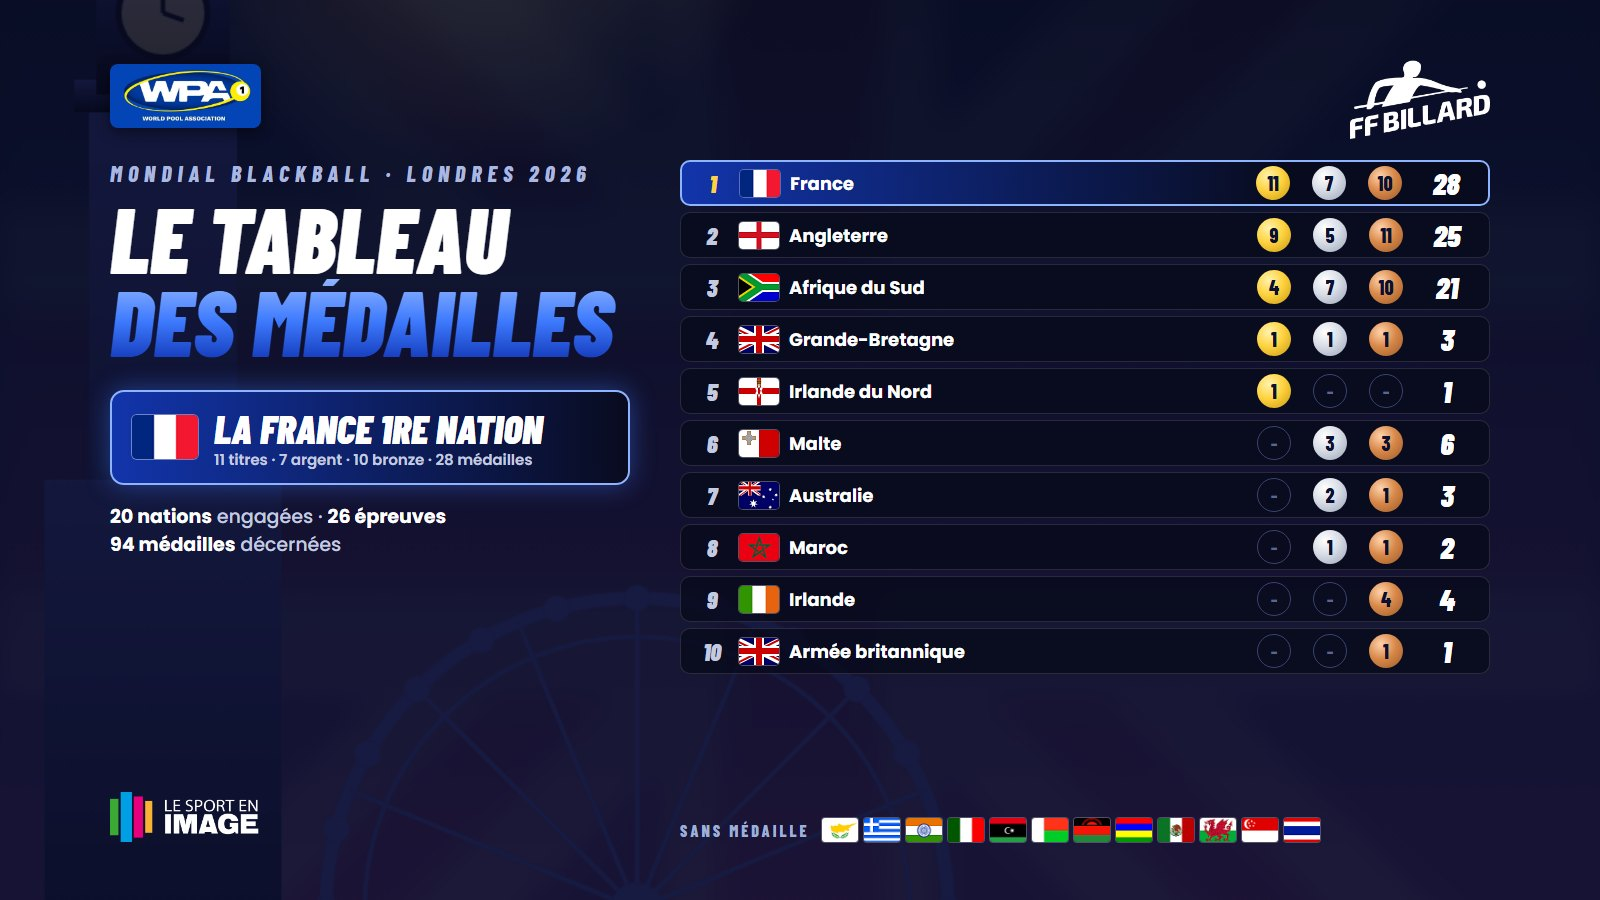
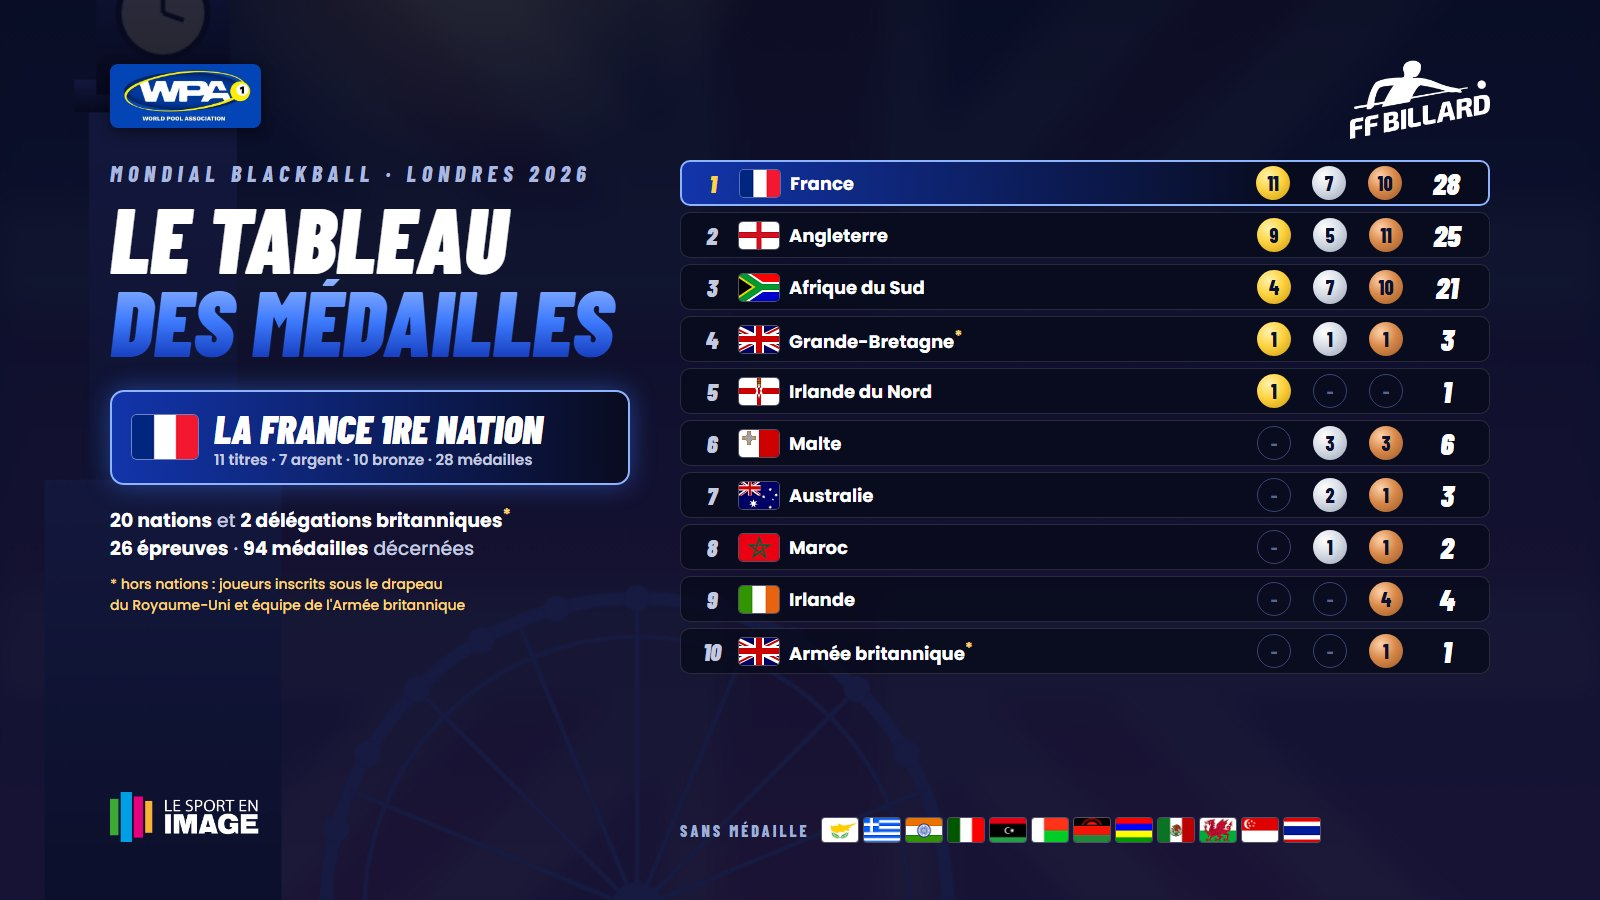
Tableau des médailles Mondial 2026 : 20 nations + 2 délégations britanniques (précision)

Changed region(s): [[0.0625, 0.56, 0.3125, 0.6844], [0.5, 0.7156, 0.625, 0.7467], [0.5, 0.3733, 0.5938, 0.4044]]

diff --git a/src/content/articles/championnat-du-monde-blackball-2026-tableau-des-medailles.md b/src/content/articles/championnat-du-monde-blackball-2026-tableau-des-medailles.md
@@ -10,7 +10,7 @@ discipline: billard
 author: La rédaction LSEI
 draft: false
 ---
-<p><strong>La France termine 1re nation du Mondial&nbsp;!</strong> Le <strong>Championnat du monde WPA Blackball 2026</strong> s'est achevé le 28 octobre à Londres. <strong>20 nations</strong> étaient engagées dans <strong>26 épreuves</strong>, et <strong>94 médailles</strong> ont été décernées. Au tableau des médailles, les équipes de France de la <strong>Fédération Française de Billard</strong> occupent la première place.</p>
+<p><strong>La France termine 1re nation du Mondial&nbsp;!</strong> Le <strong>Championnat du monde WPA Blackball 2026</strong> s'est achevé le 28 octobre à Londres. <strong>20 nations</strong> et 2 délégations britanniques étaient engagées dans <strong>26 épreuves</strong>, et <strong>94 médailles</strong> ont été décernées. Au tableau des médailles, les équipes de France de la <strong>Fédération Française de Billard</strong> occupent la première place.</p>
 
 <img src="/uploads/cdm-blackball-2026-medailles-par-nation.jpg" alt="Tableau des médailles du Championnat du monde de blackball 2026 : la France 1re nation avec 11 titres, 7 médailles d'argent et 10 de bronze" loading="lazy" />
 
@@ -20,7 +20,10 @@ draft: false
 <li>🥈 <strong>Angleterre</strong>&nbsp;: 9 titres, 5 médailles d'argent et 11 de bronze (25 médailles)</li>
 <li>🥉 <strong>Afrique du Sud</strong>&nbsp;: 4 titres, 7 médailles d'argent et 10 de bronze (21 médailles)</li>
 </ul>
-<p>Suivent la <strong>Grande-Bretagne</strong> (1 or, 1 argent, 1 bronze, en para-billard fauteuil), l'<strong>Irlande du Nord</strong> (1 titre), <strong>Malte</strong> (3 argent, 3 bronze), l'<strong>Australie</strong> (2 argent, 1 bronze), le <strong>Maroc</strong> (1 argent, 1 bronze), l'<strong>Irlande</strong> (4 bronze) et l'<strong>Armée britannique</strong> (1 bronze, par équipes Hommes B).</p>
+<p>Suivent l'<strong>Irlande du Nord</strong> (1 titre), <strong>Malte</strong> (3 argent, 3 bronze), l'<strong>Australie</strong> (2 argent, 1 bronze), le <strong>Maroc</strong> (1 argent, 1 bronze) et l'<strong>Irlande</strong> (4 bronze).</p>
+
+<h2>Deux délégations britanniques hors nations</h2>
+<p>Le tableau compte aussi deux délégations qui ne sont pas des nations&nbsp;: les joueurs inscrits sous le drapeau du <strong>Royaume-Uni</strong>, qui ont pris l'or, l'argent et le bronze en para-billard fauteuil, et l'équipe de l'<strong>Armée britannique</strong>, médaillée de bronze par équipes Hommes B. C'est pourquoi le tableau compte 22 lignes pour 20 nations engagées.</p>
 
 <h2>Les nations engagées sans médaille</h2>
 <p>Douze autres nations ont pris part au Mondial&nbsp;: Chypre, la Grèce, l'Inde, l'Italie, la Libye, Madagascar, le Malawi, Maurice, le Mexique, le Pays de Galles, Singapour et la Thaïlande.</p>
